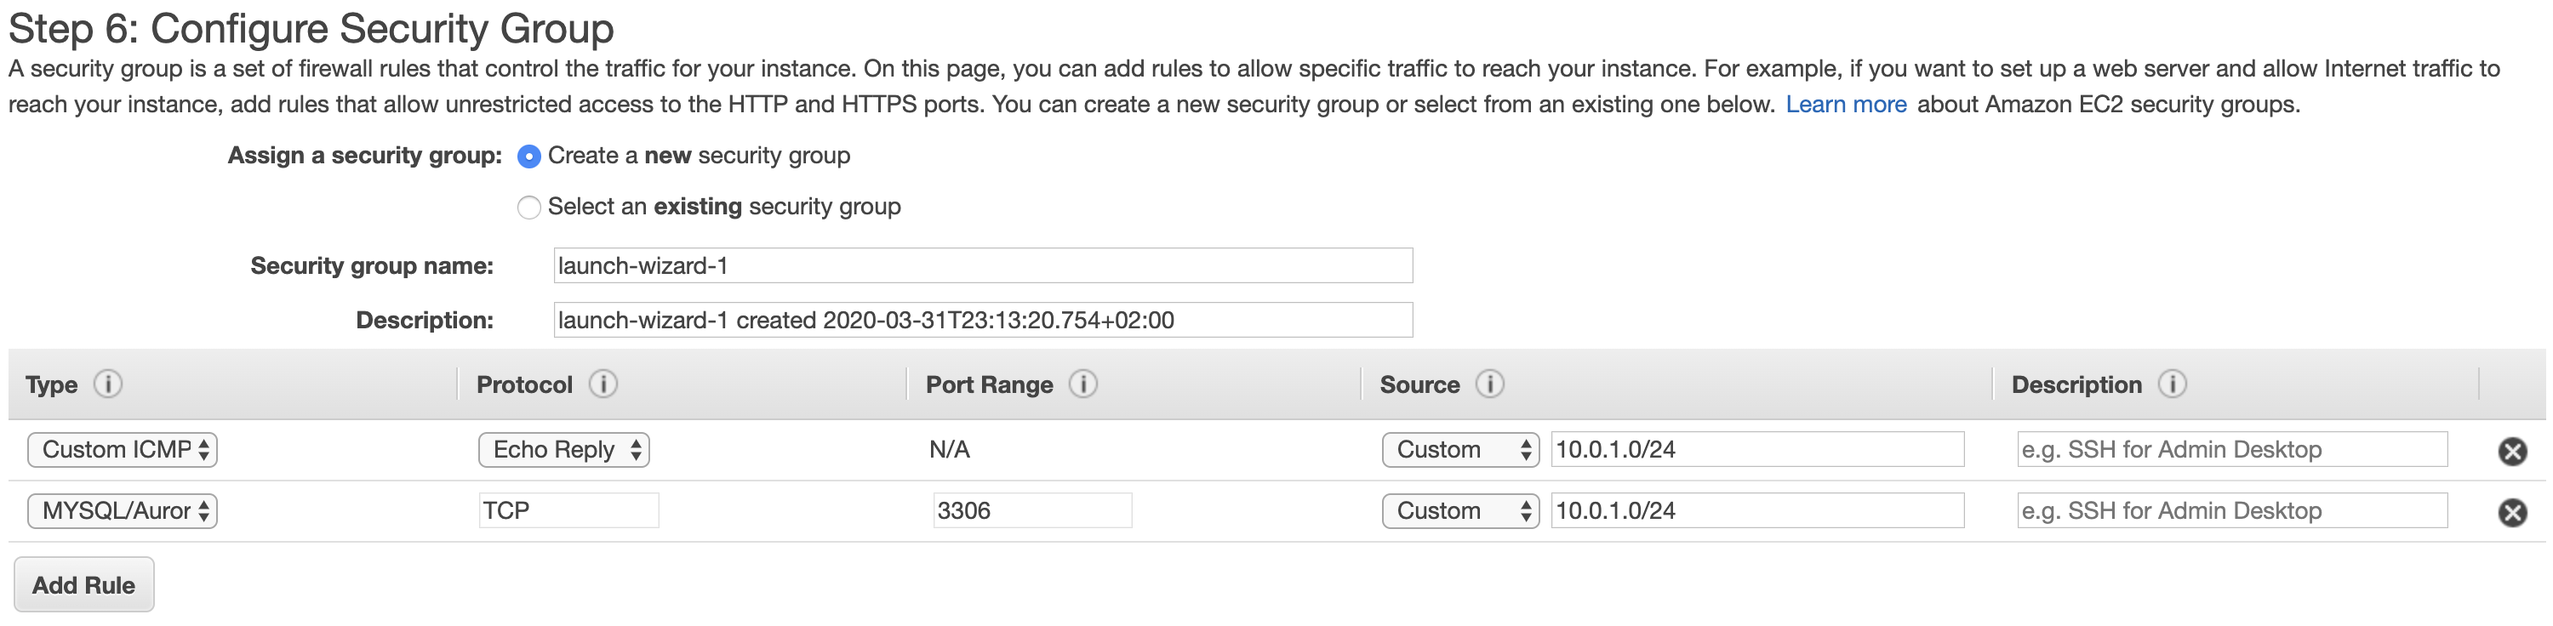
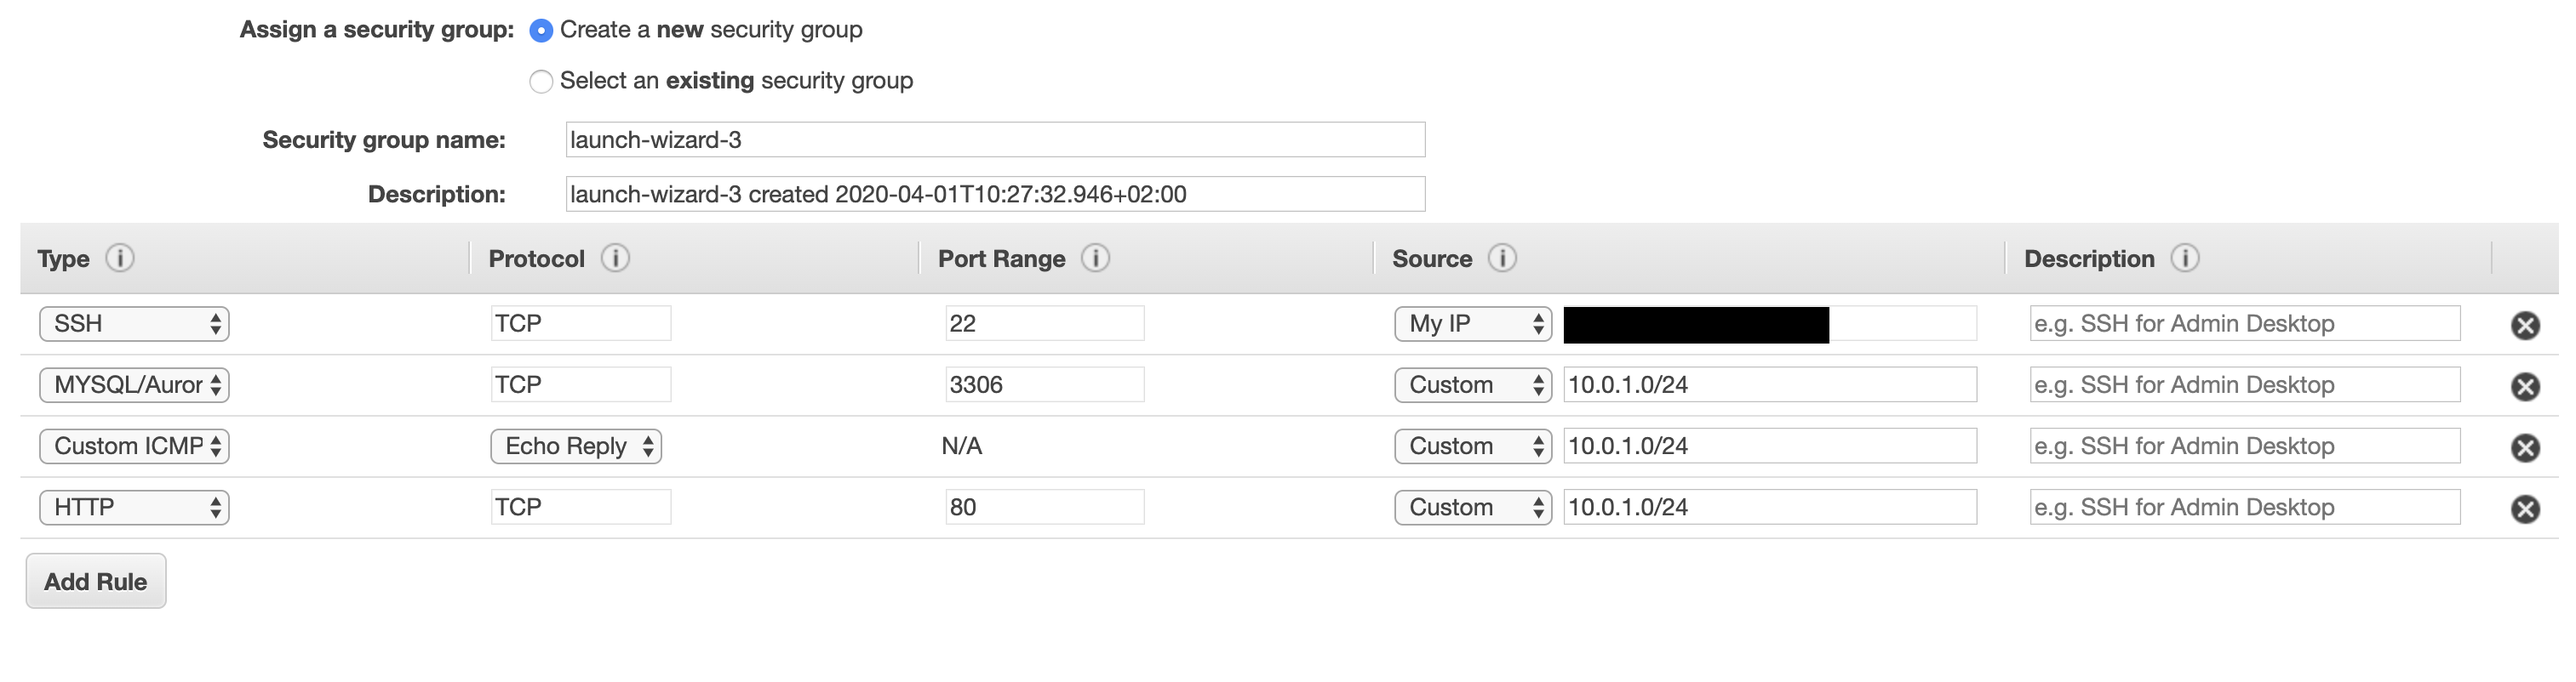
VPC post.

diff --git a/content/posts/vpc.md b/content/posts/vpc.md
@@ -5,29 +5,29 @@ disqus: false
 ---
 For several projects i'm currently working on, a [AWS Solution Architect associate certification](https://aws.amazon.com/certification/certified-solutions-architect-associate/) is required. 
 
-I don't actually believe in certifications as a way to prove any kind of knowledge, i found them useful to have an overview of how a certain product or service work and which kind of problems it's meant to solve.
+I don't actually believe in certifications as a way to prove any kind of knowledge, i found them useful to have an overview of how a certain product or service works and which kind of problems it's meant to solve.
 
 Having worked with AWS for more than 5 years i can say that i got my hands dirty with most of the topics involved. Although some of them are completely new, and i must say, interesting. 
 
 One that grabbed my attention is [Amazon VPC](https://aws.amazon.com/vpc/). VPC lets you provision a logically isolated section of the AWS Cloud where you can launch AWS resources in a virtual network that you define. Most important is that you can define additional subnetwork within the network, with different access security rules. 
 
-I found VPC a terrific tool to be used to set up an environment for a common web application, like for example [Wordpress](https://wordpress.com/). I decided then to dedicate one post on how to set up a Wordpress application using VPC(disclaimer: i don't really like WP, but i find it extremly easy to set up, therefore this choice).
+I found VPC a terrific tool to be used to set up an environment for a common web application, like for example [Wordpress](https://wordpress.com/). I decided then to dedicate one post on how to set up a Wordpress application using VPC(disclaimer: i don't really like WP, but i find it extremly easy to set up, therefore this choice).  
 This is what we are gonna create:
 ![image](/architecture_of_vpc.png)
 
 ### Requirements
-* an existing aws account(Amazon offen a free tier account as well) 
+* an existing aws account(Amazon offen a free tier for new accounts) 
 
 ### Creating the VPC 
-First thing to do is to connect to your aws console. 
+First thing to do is to connect to our aws console. 
 Then create a new VPC(VPCs > Create VPC), specifying: 
 ![image](/create_vpc.png)
-As you can see, out VPC will use IPs ranging from 10.0.0.0 to 10.0.255.255. according to the CIDR notation. 
+As you can see, our VPC will use IPs ranging from `10.0.0.0` to `10.0.255.255`. according to the CIDR notation. 
 The next step will be to create two subnets within the VPC, one publicly accessible via http or https and reserved to the web application, the other dedicated to the db, not publicly accessible, but still accessible from the web server and from a sysadmin via SSH. 
 ### Creating the public subnet
 To create the public subnet, go to Subnets > Create subnet, specify the VPC you created on the previous step, and assign as IPv4 CIDR block `10.0.1.0/24`. You can choose another IP range if you want, it's important that this IP range is contained in the one of the VPC you created.
 
-In this case we want a public IP address to be assign on each instance of the public subnet. In order to do that we must select the subnet, and then presso on Action > Modify auto-assign IP setting. If we don't do that, no public IP address will be assigned ot the instance, and it will be necessary yo use an [elastic Ip](https://docs.aws.amazon.com/AWSEC2/latest/UserGuide/elastic-ip-addresses-eip.html).
+In this case we want a public IP address to be assigned to each instance of the public subnet. In order to do that we must select the subnet, and then presso on Action > Modify auto-assign IP setting. If we don't do that, no public IP address will be assigned ot the instance, and it will be necessary yo use an [elastic Ip](https://docs.aws.amazon.com/AWSEC2/latest/UserGuide/elastic-ip-addresses-eip.html).
 
 You might notice that there is nothing in this setup that makes this subnet public. If we try to start a web server in this subnet we will see indeed that it is not reachable from the internet. 
 
@@ -39,15 +39,16 @@ In order to create an IG, go to Internet gateways > Create internet gateway, aft
 After that configure the Route Table of the public subnet in order to allow traffic to the internet(0.0.0.0/0). 
 ![image](/create_route_table.png)
 
-Once we have done it, we can create our web server, and configure wordpres!
+Once we have done it, we can create our web server, and configure wordpress!
 
 ### Creating the private subnet
 To create the private subnet you can follow the first steps of the previous paragraph, setting as CIDR block `10.0.2.0/24` in order to differentiate the IP addresses of the two subnets. 
 
 ### Create the Web instance 
 In order to our application to run, we need to install a web server and a database server.  
-For what concerns the web server, we are gonna install `httpd`, `php` and then add download wordpress in `/var/www/html`.  
-Let's start by creating a linux instance in EC2. 
+We are gonna use Amazon Linux 2 virtual machines, although any other linux distro can be chose, the script might need to be changed accordingly.  
+For what concerns the web server, we are gonna install `httpd`, `php` and then download wordpress in `/var/www/html`.  
+Let's start by creating a linux instance in EC2.  
 Assign the VPC and the public subnet we created in the "Configure Instance Details" page, edit the "User data" with the commands to run when the instance is created: 
  ![image](/instance_details.png)
 ```
@@ -66,18 +67,32 @@ Make sure to specify on the security group to add HTTP and HTTPS from the intern
  ![image](/inbound_rules.png)
 ### Create the DB instancee
 For the DB instance we will follow the same procedure of the previous point to create a new instance.  
-The subnet we will choose is the private one.  
-This time we will configure the script in order to install mysql.  
+The subnet we will choose is the private one. 
+In order to install mysql we need internet connection, since this instance will be in the private subnet there is no internet gateway associated.  To overcome this issue we create a NAT gateway on the public subnet, we then modify the route table of the private subnet in order to point to that gateway for all the requests torwards the public internet.
+This time we will configure the script in order to install mysql:  
 ```
 #!/bin/bash
 yum update -y 
-yum install mysql-server 
-systemctl enable mysqld 
+wget https://dev.mysql.com/get/mysql57-community-release-el7-9.noarch.rpm
+rpm -ivh mysql57-community-release-el7-9.noarch.rpm
+yum install mysql-server
+systemctl enable mysqld
 systemctl start mysqld
+mysql -e "CREATE DATABASE wordpress /*\!40100 DEFAULT CHARACTER SET utf8 */;"
+mysql -e "CREATE USER riccardo@localhost IDENTIFIED BY 'blah';"
+mysql -e "GRANT ALL PRIVILEGES ON wordpress.* TO riccardo@'%';"
+mysql -e "FLUSH PRIVILEGES;"
 ```
 ### Connect the WEB server to the DB instance
-We need to connect the web server to the database, in order to do so, we change the security group of the DB in order to allow mysql connection from the web server. 
+We need to connect the web server to the database, in order to do so, we must change the security group of the DB in order to allow mysql connection from the web server, plus ssh connection from the EC2 instance on the public subnet, for system administration. 
 ![image](/db_security_group_inbound_rules.png)
+### Install Wordpress
+After all of this we can finally install wordpress.  
+To do that, we open in a browser tab, the IP address of of our web instance. After that, we will be prompt to write the params for the connection to mysql. Once this is done, a wp-config file will be displayed on the web page. The content of this file is supposed to be put on the root path of wordpress.  
+Note that this step can be automated as well, this time i didn't do it because it's out of scope. 
+![image](/wp_1.png)
+![image](/wp_2.png)
+![image](/wp_3.png)
 ### Conclusion
 My conclusion is that aws allows to easily set up a simple web application.  
 Some things to point out:   
